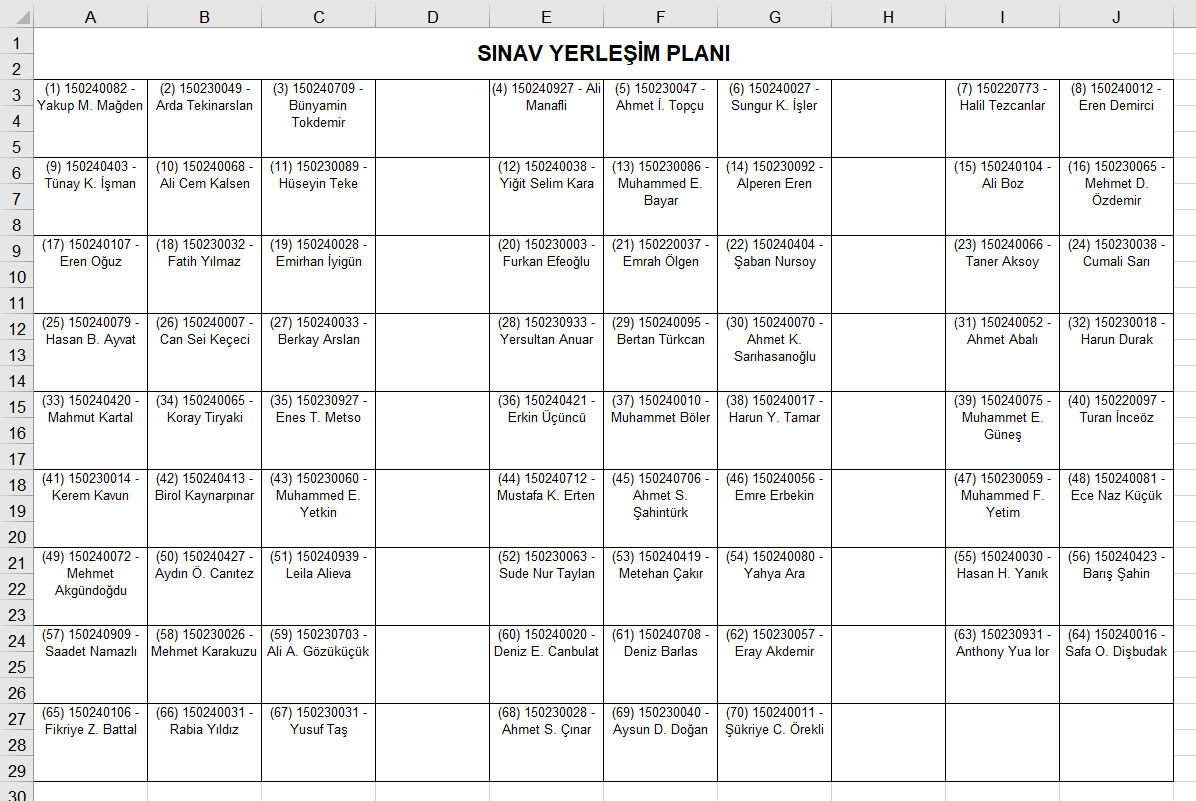
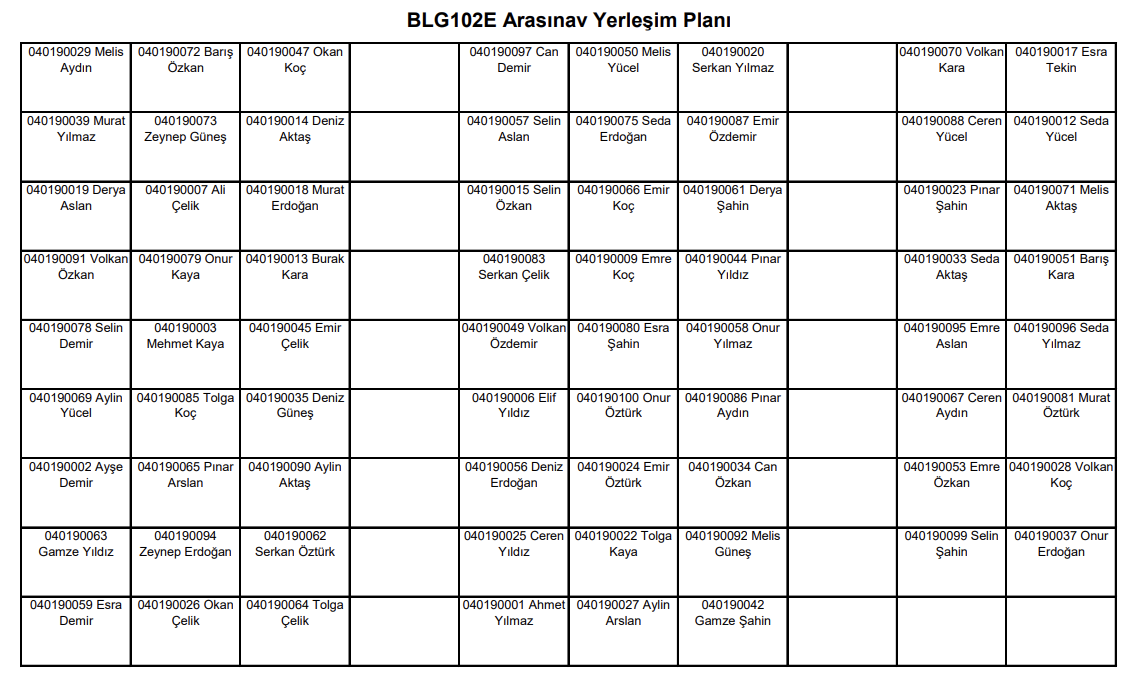
readme updated

diff --git a/Readme.md b/Readme.md
@@ -1,35 +1,44 @@
 # Otomatik Oturma Planı Oluşturucu
 
-Projenin amacı, oturma planı hazırlama işlemini otomatikleştirmek ve standartlaştırmaktır. Hazırlanan oturma planlarında öğrenci sadece imza atacağı için yoklama alma süreci de **hızlanacaktır**.
+Projenin amacı, oturma planı hazırlama işlemini **otomatikleştirmek** ve standartlaştırmaktır. Hazırlanan oturma planlarında öğrenci sadece imza atacağı için yoklama alma süreci de **hızlanacaktır**.
 
-Program, verilen öğrenci listesini sınıflara otomatik olarak dağıtarak oturma planlarını excel dosyası olarak oluşturur. Sınıf kapasiteleri ve oturma düzenleri önceden hazırlandığı için sadece öğrenci listesi ve sınıf seçimi yapılması gerekmektedir.
+Program, verilen öğrenci listesini sınıflara otomatik olarak dağıtarak oturma planlarını excel dosyası olarak oluşturur. Ardından pdf e dönüştürerek Ninova'da paylaşılabilir hale getirir. Ek olarak tutanak sayfası eklenmiş halini de oluşturarak çıktı alınabilir hale getirir. Sınıf kapasiteleri ve oturma düzenleri önceden hazırlandığı için sadece öğrenci listesi ve sınıf seçimi yapılması gerekmektedir.
+
+:construction: Şimdilik sadece Z-16 ve Z-17 sınıflarının oturma planlarını mevcuttur. Diğer sınıflar için template dosyalarının el birliği ile hazırlanması gerekmektedir.
+
+:construction: Şimdilik MacOS da sadece excel dosyasını oluşturmaktadır, pdf'e dönüştürme işleminin elle yapılması gerekmektedir.
 
 ## Hızlı Başlangıç
 
-**1-** Ninovada planını hazırlamak istediğiniz sınıfın "Öğrenciler" sekmesindeki listeyi `students.txt` dosyasına kopyalayın.
+**1-** Ninovada planını hazırlamak istediğiniz sınıfın "Öğrenciler" sekmesindeki listeyi `ogrenci-listesi.txt` dosyasına kopyalayın.
 
 ![Ninova Öğrenci Listesi](imgs/ninova-ogrenciler.png)
 
-**2-** "input.json" dosyasında, hangi sınıfların kullanılacağını belirtin.
+**2-** `input.json` dosyasını aşağıdaki gibi düzenleyin.
 
 ```
 {
-    "available_classrooms": ["Z-16", "Z-17"],       // Kullanacağınız sınıflar
-    "student_ids_file": "students.txt",             // Öğrenci listesi
-    "output_prefix": "BLG102 Midterm Seating Plan"  // Sınav İsmi
+    "exam_name": "BLG102E Arasınav Yerleşim Planı",         // Oturma planının başlığı
+    "available_classrooms": ["Z-16", "Z-17"],               // Sınavın yapılacağı sınıflar
+    "student_ids_file": "ogrenci-listesi.txt",
+    "output_directory": "BLG102E-oturma-planları",
+    ... 
 }
 ```
 
-**3-** `python seating_plan_generator.py` komutunu çalıştırarak planları excel dosyası olarak oluşturun. Örnek ekran görüntüsü (listelenen öğrenciler gerçek değildir):
+**3-** `python seating_plan_generator.py` komutunu çalıştırarak planları **excel** ve **pdf** dosyası olarak oluşturun. Örnek ekran görüntüsü (listelenen öğrenciler gerçek değildir):
 
 ![Örnek Çıktı](imgs/ornek-cikti.png)
 
-TODO: **Bu resim güncellenecek!**
+## Kurulum
 
-## Ön Gereksinimler
+Python 3.8 ile test edilmiştir. Gerekli paketleri yüklemek için:
 
-- Python 3.7 veya üzeri
-- Gerekli paketler için: `pip install openpyxl`
+```bash
+pip install -r requirements.txt
+```
+
+Pdf'e dönüştürmek için Windows da **MS Office**, Linux da ise **LibreOffice** kurulu olmalıdır.  
 
 ## Detaylar
 
@@ -45,7 +54,7 @@ Argümanlar:
 
 ### Dosya Formatları
 
-#### 1. "Configuration" dosyası (configuration.json)
+#### 1. `configuration.json` dosyası 
 ```json
 {
     "classroom-capacities": {
@@ -68,22 +77,26 @@ Argümanlar:
 }
 ```
 
-- `classroom-capacities`: Sınıf isimlerini ve kapasitelerini belirten nesne
-- `seat-mappings`: Template'e göre her sınıf için oturma düzenini belirten nesne
+- `classroom-capacities`: Sınıf isimlerini ve kapasitelerini belirten alan
+- `seat-mappings`: Template'e göre her sınıf için oturma düzenini belirten alan
 
-#### 2. "Input" dosyası (input.json)
+#### 2. `input.json` dosyası
 ```json
 {
+    "exam_name": "BLG322E Arasınav Yerleşim Planı",
     "available_classrooms": ["Z-16", "Z-17"],
-    "student_ids_file": "data/student_ids.txt",
-    "output_prefix": "output/seating_plan"
+    "student_ids_file": "ogrenci-listesi.txt",
+    "output_directory": "BLG322E-oturma-planlari",
+    "cell_params": ["student_id", "name", "seat_number"]
 }
 ```
+- `exam_name`: Oturma planının başlığı
 - `available_classrooms`: Kullanılacak sınıfların listesi (configuration.json'da belirtilmiş olmalıdır)
-- `student_ids_file`: Öğrenci ID'lerini ve adlarını içeren metin dosyasının yolu
-- `output_prefix`: Çıktı dosyalarının ön eki - her sınıf için bir dosya oluşturulacak (örnek: "seating_plan_Z-16.xlsx", "seating_plan_Z-17.xlsx")
+- `student_ids_file`: Öğrenci ID'lerini, adlarını ve mail adreslerini içeren metin dosyası
+- `output_directory`: Çıktı dosyalarının kaydedileceği dizin
+- `cell_params`: Oluşan pdf de hangi bilgilerin görünmesini istediğinizi belirtin. 
 
-#### 3. Öğrenci ID'leri Dosyası (input.json'da belirtilmiş olmalıdır)
+#### 3. Öğrenci ID'leri Dosyası (`input.json`'da `student_ids_file` alanı)
 ```text
 150220722   Ahmet Yılmaz (yilmaza22)
 150220724   Ayşe Kaya (kayaa22)
@@ -93,7 +106,7 @@ Argümanlar:
 - ID'ler ve adlar, tab veya boşluklarla ayrılır
 
 #### 4. Excel Template Dosyaları
-- Her sınıf için bir template dosyası olmalıdır
+- Her sınıf için `Template_<sınıf-isim>.xlsx` formatında bir template dosyası olmalıdır. 
 - Örnek: `Template_Z-16.xlsx`, `Template_Z-17.xlsx`
 - Template dosyaları, sınıf düzenini içermelidir
 
@@ -101,7 +114,7 @@ Argümanlar:
 
 - Program, belirtilen configuration, input ve öğrenci listesi dosyalarını okur.
 - Öğrenciler, her sınıf için belirtilen oturma düzenine göre Excel hücrelerine rastgele atanır.
-- Çıktı dosyaları, `{prefix}_{room}.xlsx` desenini kullanarak adlandırılır.
+- Çıktı dosyaları, `{exam_name}_{room}.xlsx` desenini kullanarak adlandırılır.
 
 ## Hata İşleme
 
